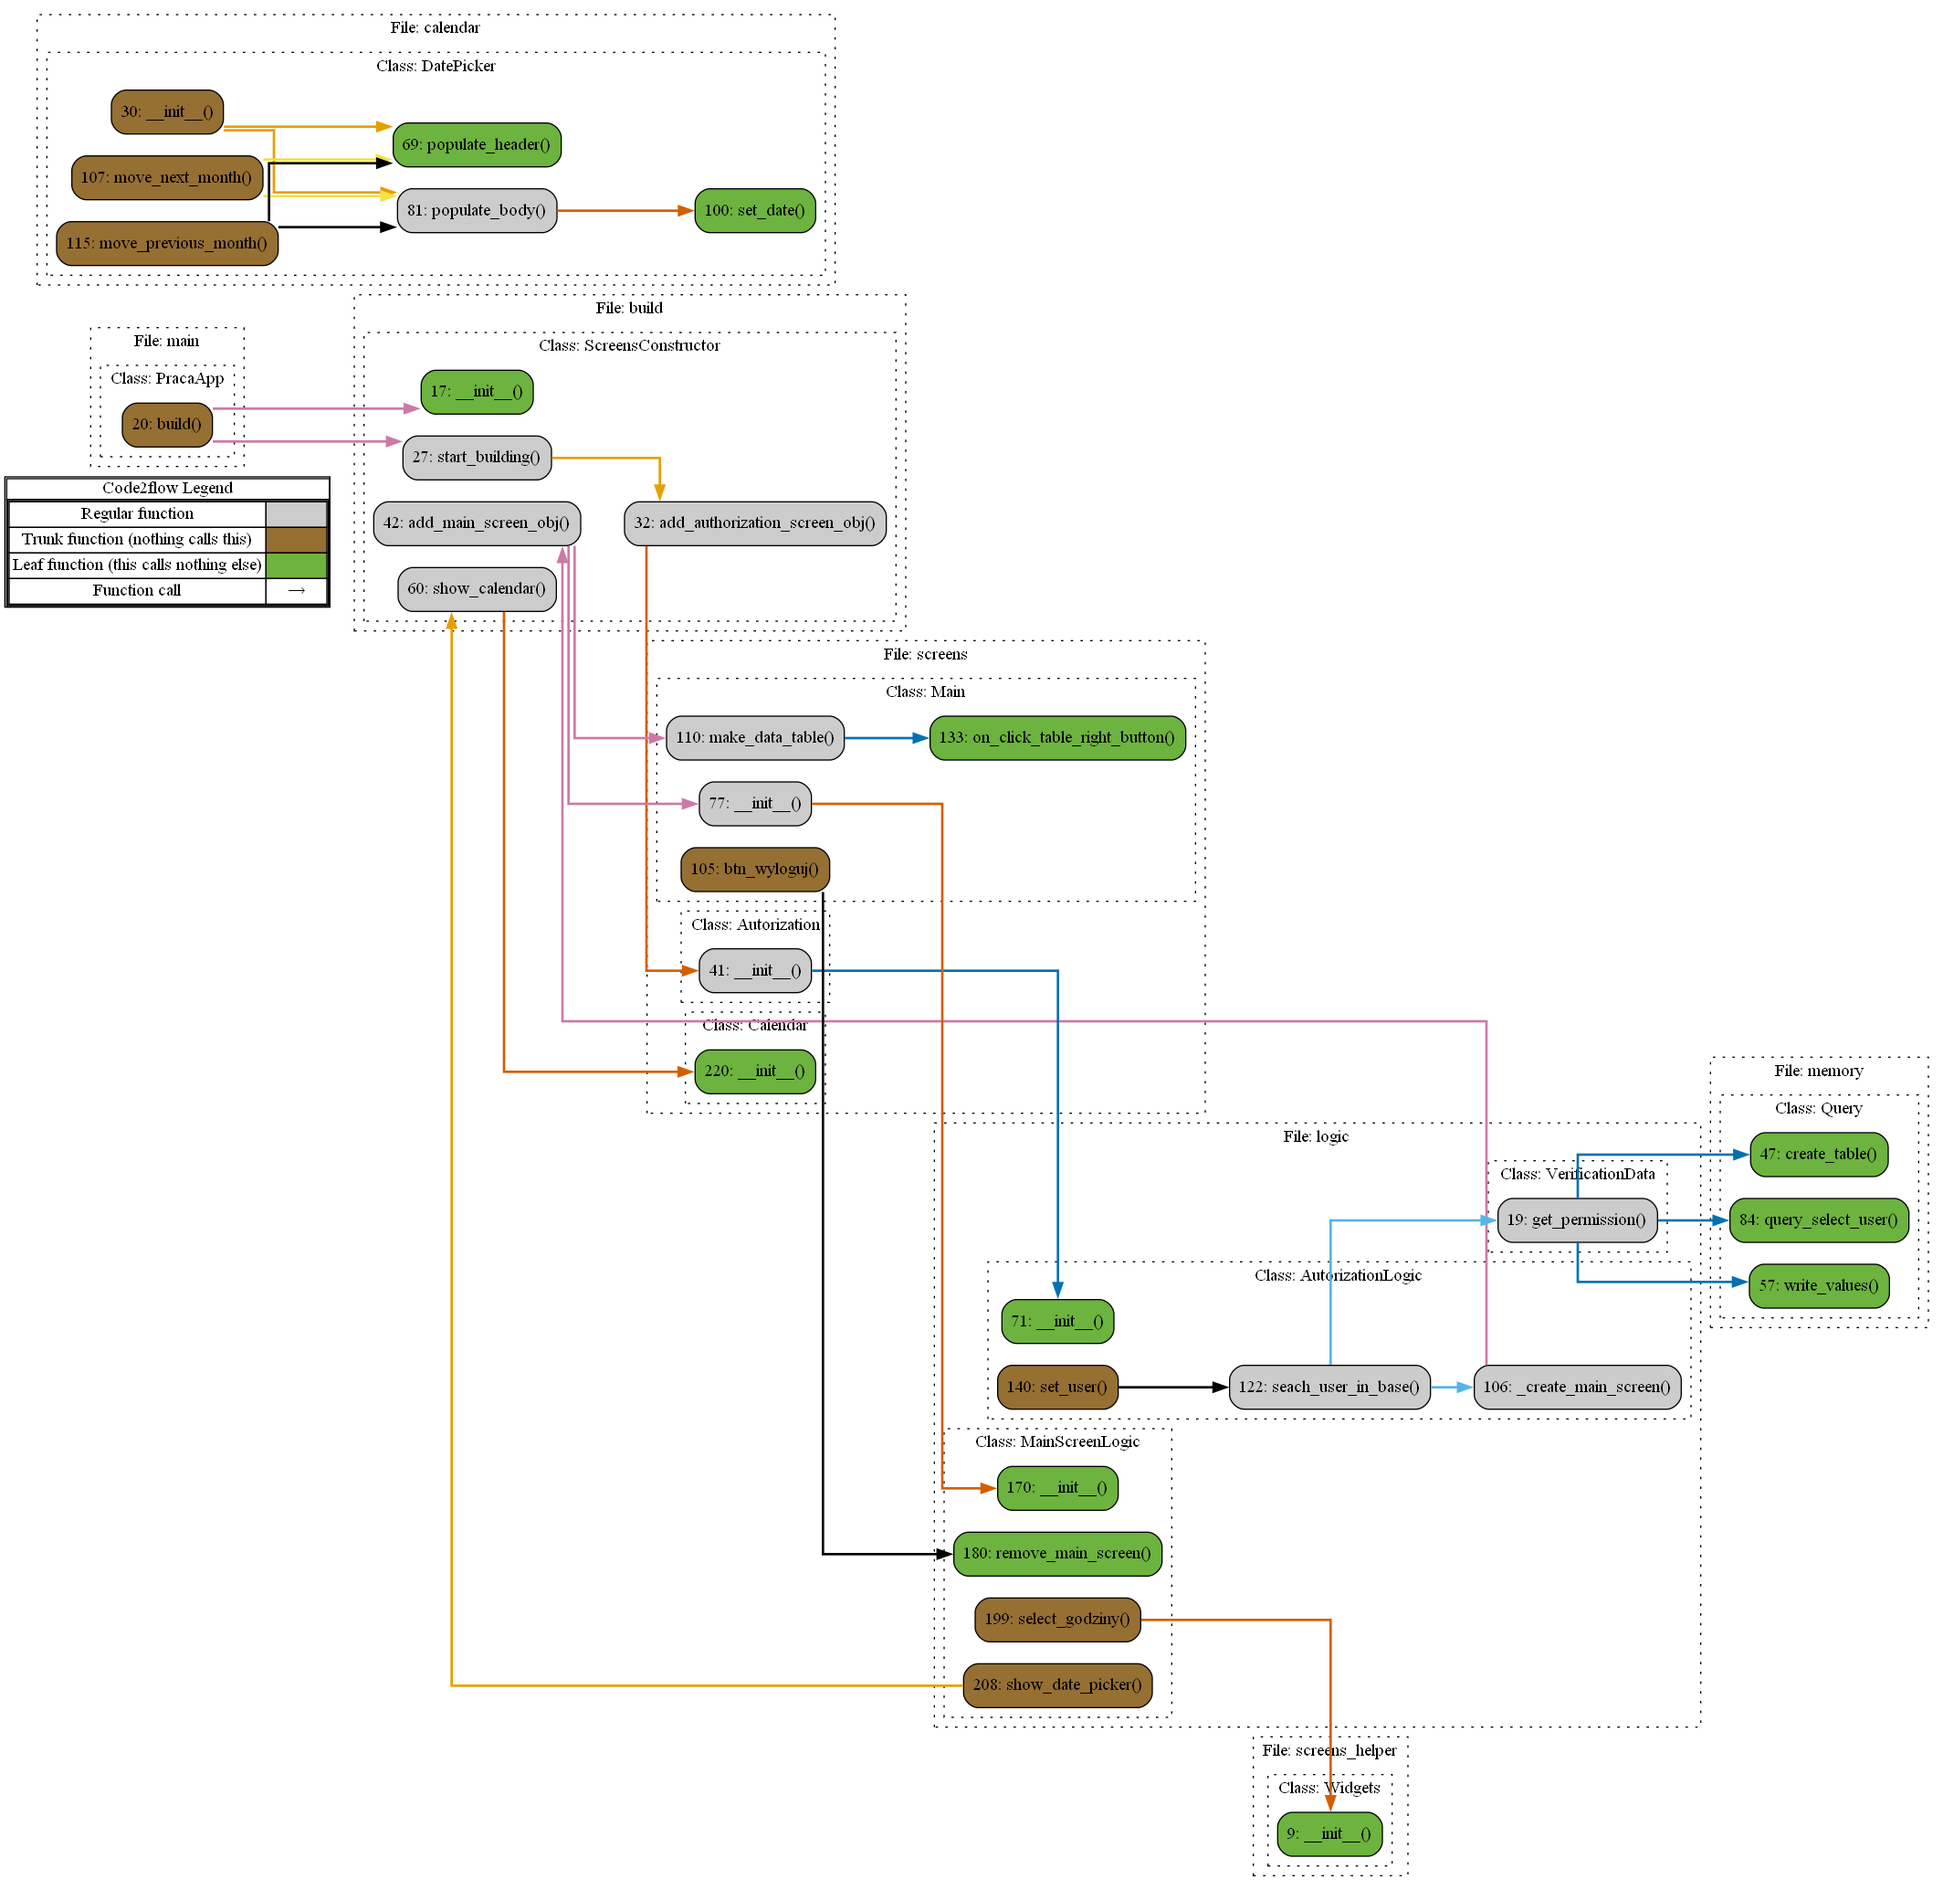
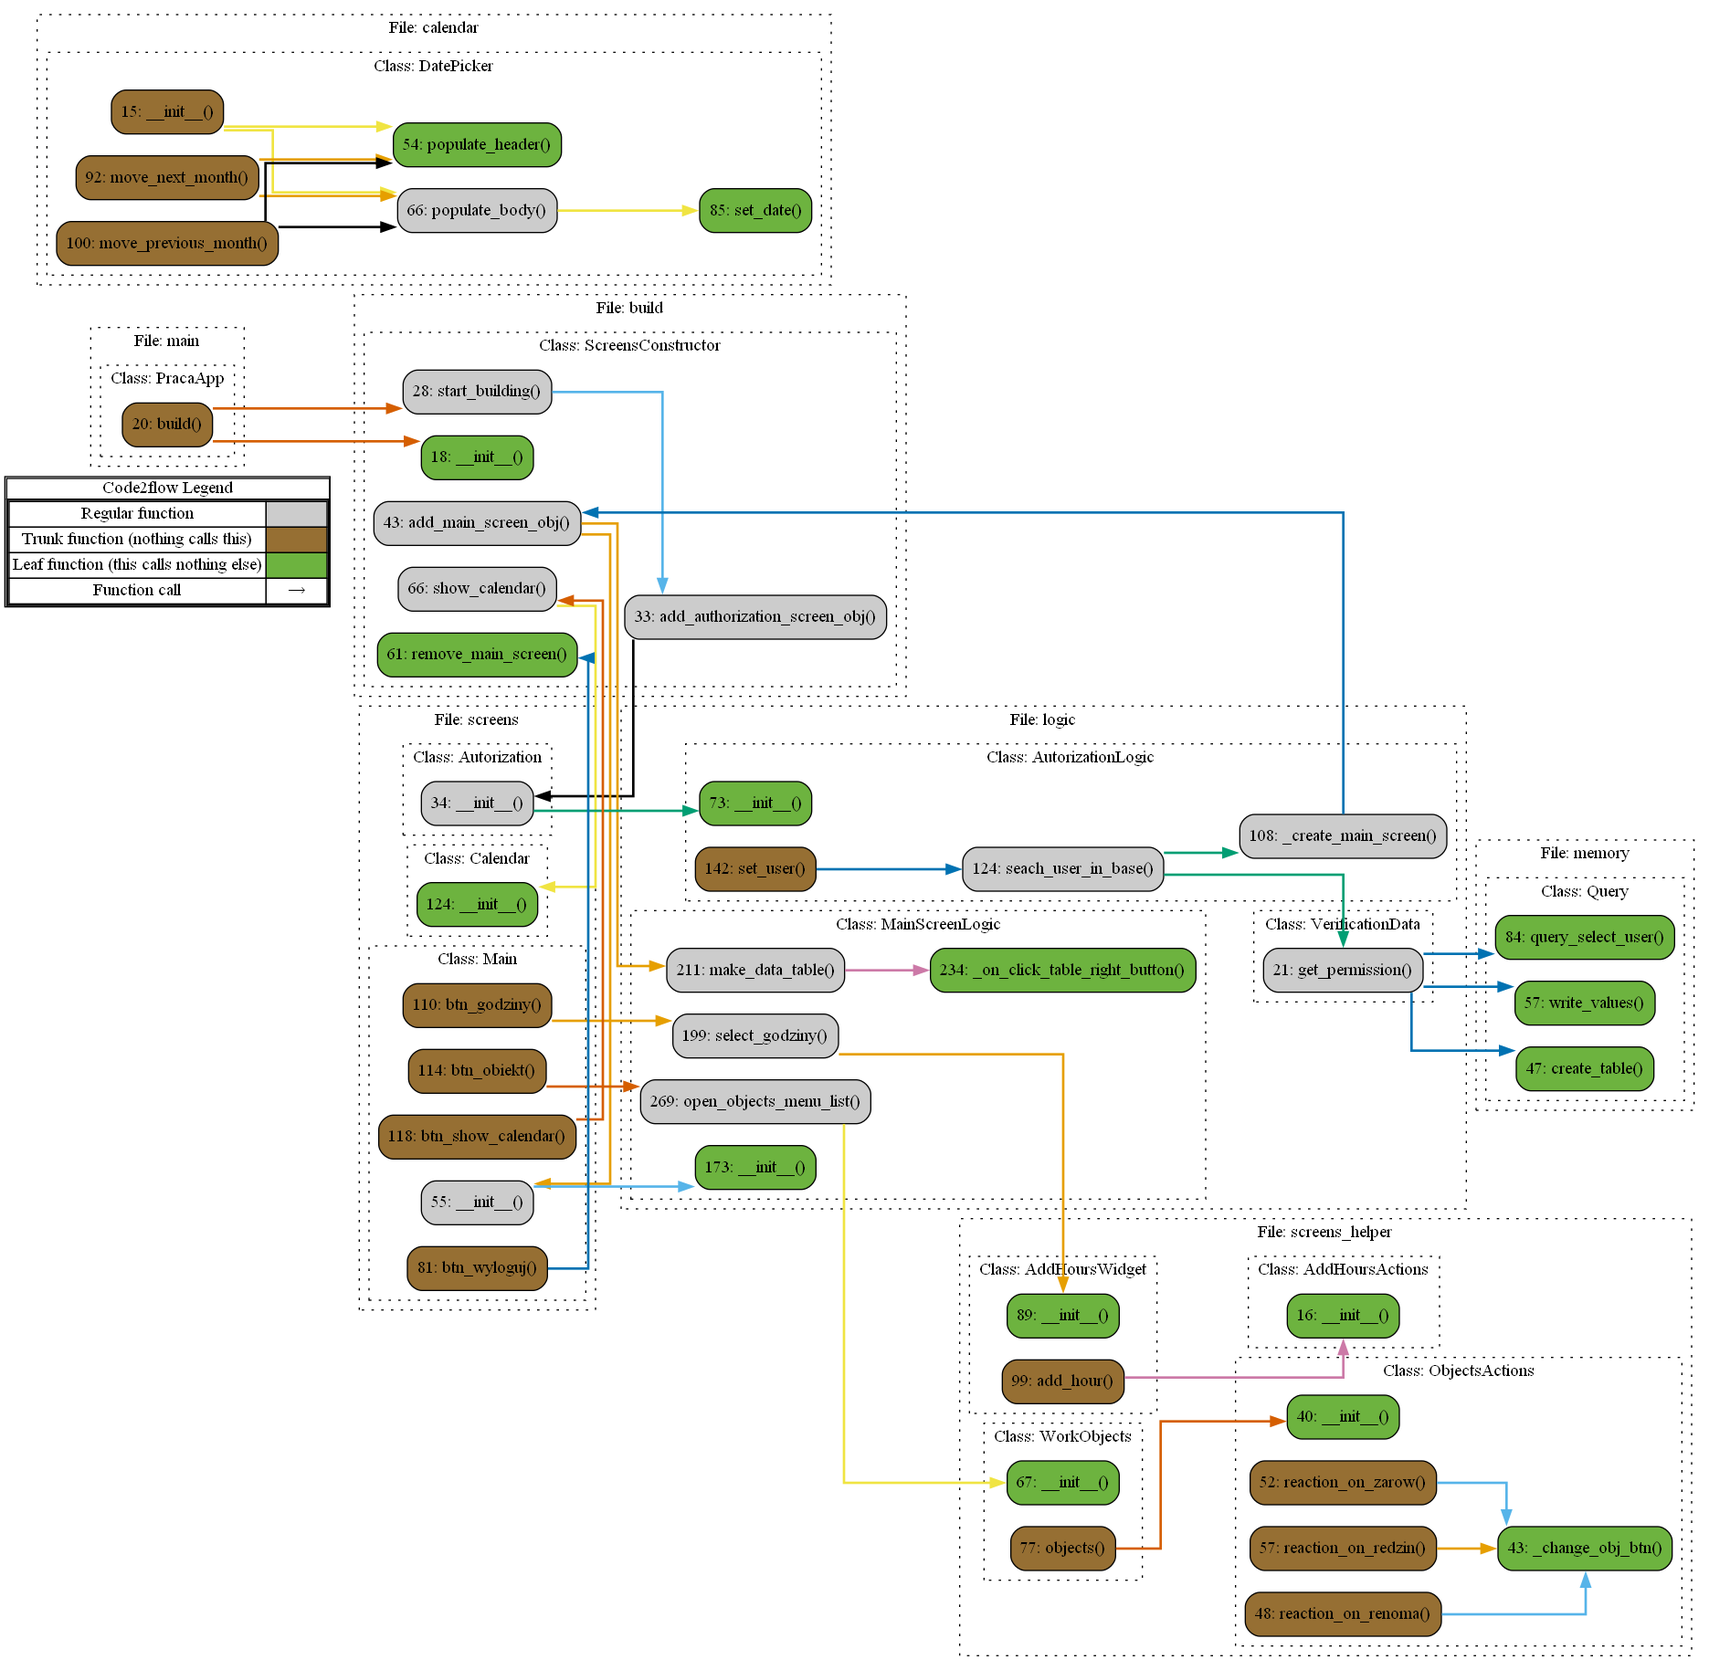
v0.0.41

diff --git a/dev/view/logic.py b/dev/view/logic.py
@@ -4,14 +4,13 @@ from kivy.metrics import dp
 from kivymd.uix.screen import MDScreen
 from kivymd.uix.spinner import MDSpinner
 from kivymd.uix.dialog import MDDialog
-from kivymd.uix.menu import MDDropdownMenu
 
 import dev
 import dev.db.memory as memory
 import dev.config as config
 import dev.db.queries_struct as queries
 from dev.exceptions import DBConnectionErr
-from dev.view.screens_helper import AddHoursWidget, Tabel, WorkObjects
+from dev.view.screens_helper import AddHoursWidget, WorkObjects
 
 
 class VerificationData:
@@ -211,45 +210,25 @@ class MainScreenLogic:
     def make_data_table(self):
         dev.logger.info('screens.py: class Main(MDScreen) make_data_table()')
 
-        import random
-        for i, obj in enumerate(['Renoma', 'Żarów', 'Rędzin', 'Renoma', 'Żarów', 'Rędzin',\
-                  'Renoma', 'Żarów', 'Rędzin', 'Renoma', 'Żarów', 'Rędzin',\
-                    'Renoma', 'Żarów', 'Rędzin', 'Renoma', 'Żarów', 'Rędzin',\
-                        'Renoma', 'Żarów', 'Rędzin', 'Renoma', 'Żarów', 'Rędzin',\
-                            'Renoma', 'Żarów', 'Rędzin', 'Renoma', 'Żarów', 'Rędzin',]):
-            item = Tabel(text=obj, on_release=self._on_click_table_row)
-            
-            h = ['8', '10', '12']
-            item.ids.left_label.text = random.choice(h)
-            item.ids.right_button.text = str(31 - i) + '.04'
-            item.ids.right_button.on_release = lambda widget=item.ids.right_button:self._on_click_table_right_button(widget)
-            
-            self.main_screen.ids.scroll.add_widget(item)
+        user_data = None
+        if user_data:
+            print('Есть данные')
+        else:
+            print('Нет данных о пользователе')
 
-    def _on_click_table_row(self, widget):
+    def on_click_table_row(self, widget):
         "Функция отрабатывает по клику на строку таблицы"
         print('--- on_click_item ---')
         print('wdiget.text:', widget.text, 'left_label.text:',  widget.ids.left_label.text, 'right_button.text:',  widget.ids.right_button.text)
 
-    def _on_click_table_right_button(self, widget):
+    def on_click_table_right_button(self, widget):
         "Функция отрабатывает по клику на дату"
         print('--- on_click_right_button ---')
         print('wdiget.text:',  widget.text)
         print('widget.parent.parent:', widget.parent.parent)
         print('widget.parent.parent.text:', widget.parent.parent.text)
 
-    def _on_save_calendar(self, instance, value, date_range):
-        '''
-        Events called when the "OK" dialog box button is clicked.
-
-        :type instance: <kivymd.uix.picker.MDDatePicker object>;
-
-        :param value: selected date;
-        :type value: <class 'datetime.date'>;
-
-        :param date_range: list of 'datetime.date' objects in the selected range;
-        :type date_range: <class 'list'>;
-        '''
+    def on_save_calendar(self, value):
         if value.day <= 9:
             day = f'0{value.day}'
         else:
@@ -260,11 +239,7 @@ class MainScreenLogic:
         else:
             month = value.month
 
-        self.ids.date_input.text = f"{day}.{month}"
-
-    def _on_cancel_calendar(self, instance, value):
-        '''Events called when the "CANCEL" dialog box button is clicked.'''
-        print(instance, value)
+        self.main_screen.ids.date.text = f"{day}.{month}"
 
     def open_objects_menu_list(self):
         #         "text": f"Renoma",

diff --git a/dev/view/screens.py b/dev/view/screens.py
@@ -9,6 +9,7 @@ from kivymd.uix.screen import MDScreen
 
 import dev
 from dev.view.logic import AutorizationLogic, MainScreenLogic
+from dev.view.screens_helper import TabelItem
 
 
 class Autorization(MDScreen):
@@ -105,7 +106,27 @@ class Main(MDScreen):
 
     def btn_dodac(self):
         dev.logger.info('screens.py: class Main(MDScreen) btn_dodac()')
-        pass
+        print(self.ids.godziny.text)
+        print(self.ids.obiekt.text)
+        print(self.ids.date.text)
+
+        if self.ids.godziny.text != 'Godziny' and \
+            self.ids.obiekt.text != 'Obiekt' and \
+                self.ids.date.text != 'Data':
+
+            item = TabelItem(
+                text=self.ids.obiekt.text,
+                on_release=self.logic.on_click_table_row,
+                )
+                
+            item.ids.left_label.text = self.ids.godziny.text
+            item.ids.right_button.text = self.ids.date.text
+            item.ids.right_button.on_release = lambda widget=item.ids.right_button: self.logic.on_click_table_right_button(widget)
+                
+            self.ids.scroll.add_widget(item)
+            self._refresh_buttons()
+        else:
+            pass
 
     def btn_godziny(self):
         dev.logger.info('screens.py: class Main(MDScreen) btn_godziny()')
@@ -117,8 +138,17 @@ class Main(MDScreen):
 
     def btn_show_calendar(self):
         dev.logger.info('screens.py: class Main(MDScreen) btn_show_calendar()')
-        self.screen_constructor.show_calendar()
+        self.screen_constructor.add_calendar_screen_obj()
 
+    def _refresh_buttons(self):
+        self.ids.godziny.text = 'Godziny'
+        self.ids.godziny.icon = 'hours-24'
+
+        self.ids.obiekt.text = 'Obiekt'
+        self.ids.obiekt.icon = 'home-lightning-bolt'
+
+        self.ids.date.text = 'Data'
+        self.ids.date.icon = 'calendar-range'
 
 class Calendar(MDScreen):
     def __init__(self, name, screen_manager, screen_constructor, *args, **kwargs):
@@ -126,6 +156,7 @@ class Calendar(MDScreen):
         self.name = name
         self.screen_manager = screen_manager
         self.screen_constructor = screen_constructor
+
 
 
 # def send_sms(phone_number, message):

diff --git a/dev/view/screens_helper.py b/dev/view/screens_helper.py
@@ -70,7 +70,7 @@ class WorkObjects(MDBoxLayout):
         self.main_screen_logic = main_screen_logic
         self._objects_reaction = None
 
-        self.widget_height = Window.size[0]*0.5
+        self.widget_height = Window.size[0]*0.7
         self.widget_width = Window.size[1]*0.5
 
     @property
@@ -92,7 +92,7 @@ class AddHoursWidget(MDBoxLayout):
         self.main_screen_logic = main_screen_logic
         self._add_hour_reaction = None
         
-        self.widget_height = Window.size[0]*0.5
+        self.widget_height = Window.size[0]*0.7
         self.widget_width = Window.size[1]*0.5
 
     @property
@@ -106,7 +106,7 @@ class AddHoursWidget(MDBoxLayout):
         return self._add_hour_reaction
 
 # главная таблица
-class Tabel(OneLineAvatarIconListItem):
+class TabelItem(OneLineAvatarIconListItem):
     '''Custom list item.'''
     pass
 

diff --git a/dev/view/build.py b/dev/view/build.py
@@ -63,7 +63,7 @@ class ScreensConstructor:
         self.screen_manager.remove_widget(self.main_screen)
         self.main_screen = None
 
-    def show_calendar(self): # calendar_screen
+    def add_calendar_screen_obj(self): # calendar_screen
         self.calendar = Calendar(
             name = 'calendar_screen',
             screen_manager = self.screen_manager,

diff --git a/dev/config.py b/dev/config.py
@@ -6,7 +6,7 @@ PATH_TO_USER_DB = abspath('./dev/db/user.db')
 # PHONE_NUMBER = '48663215343' # Жека
 PHONE_NUMBER = '48577655470'
 
-# from kivy.core.window import Window
-# Window.top = 75
-# Window.left = 75
-# Window.size = (405, 810)
+from kivy.core.window import Window
+Window.top = 75
+Window.left = 75
+Window.size = (405, 810)
